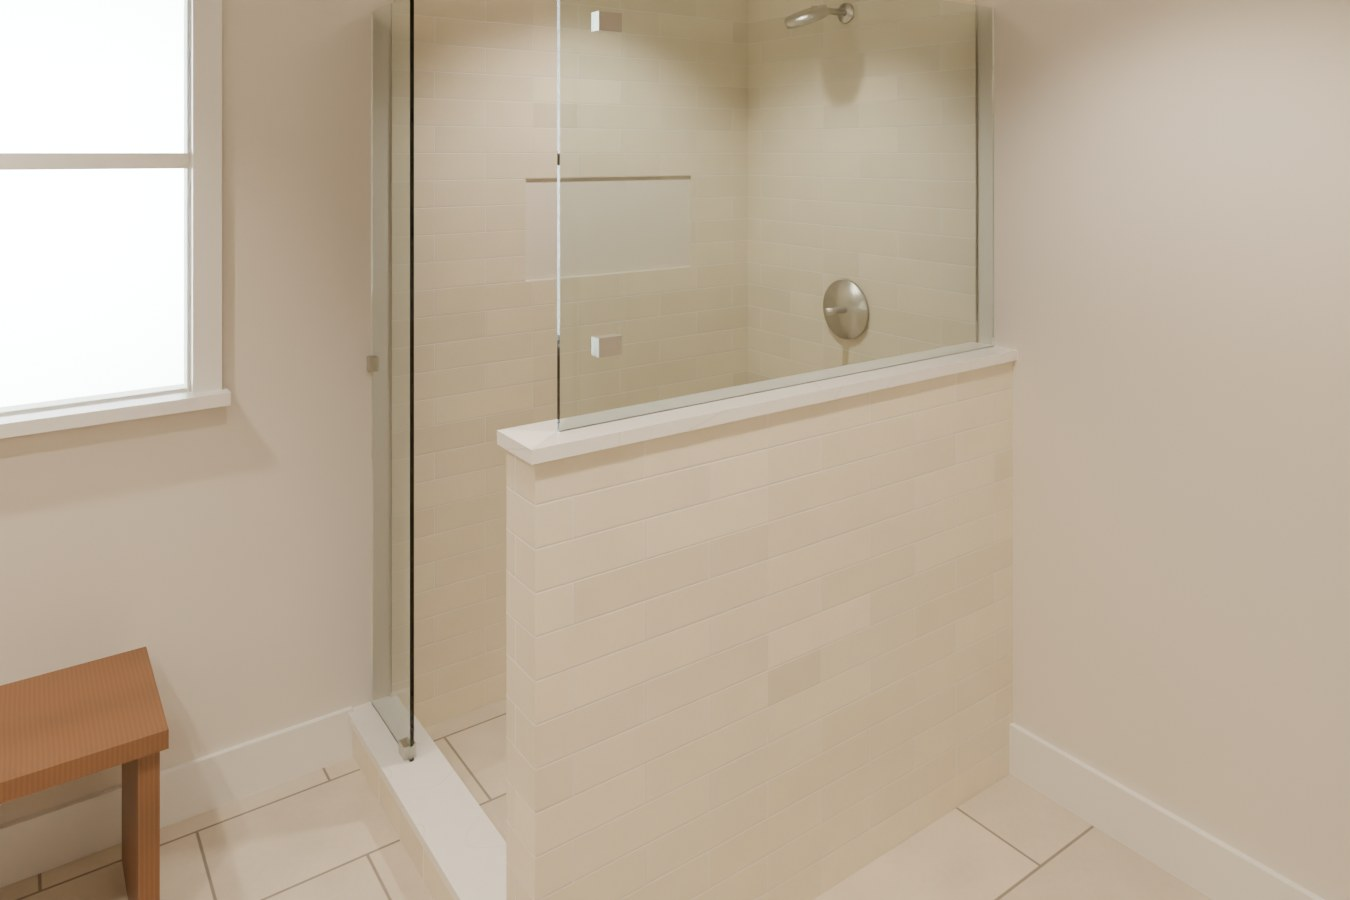
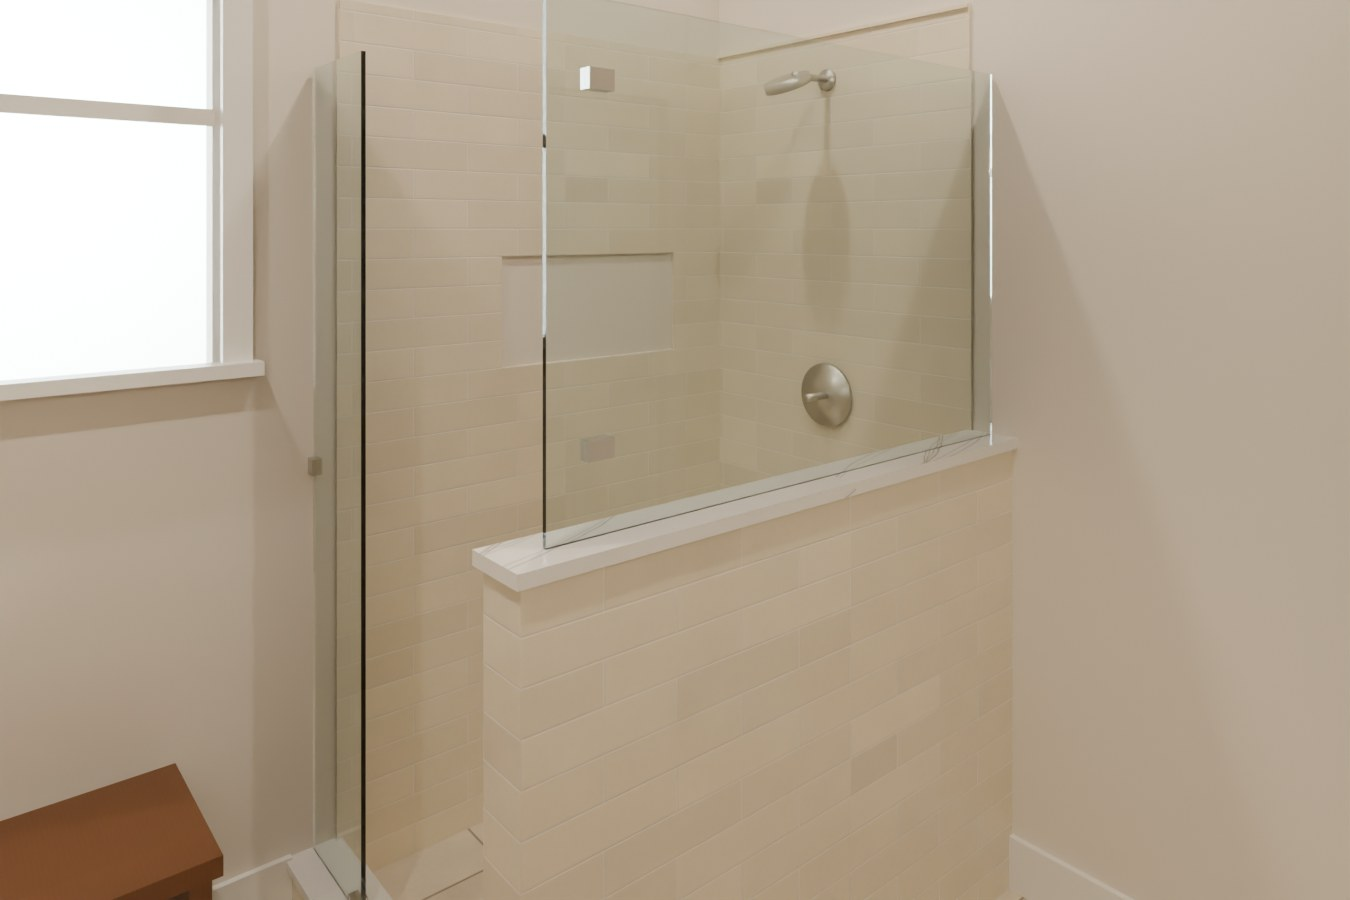
Olive Hill concept: rebuild from Polycam mesh, add 3D walkthrough, Brown Sugar vanity wall to wall, Golden Beach quartz
Claude-Session: https://claude.ai/code/session_01SeE1aYPeiWt3ibgsh6fWaQ

diff --git a/concepts/olive-hill/walkthrough.html b/concepts/olive-hill/walkthrough.html
@@ -1,0 +1,232 @@
+<!DOCTYPE html>
+<html lang="en"><head><meta charset="utf-8">
+<meta name="viewport" content="width=device-width, initial-scale=1, maximum-scale=1, user-scalable=no">
+<meta name="robots" content="noindex, nofollow">
+<title>Primary Bath — 3D Walkthrough</title>
+<style>
+html,body{margin:0;height:100%;overflow:hidden;background:#141413;font-family:Inter,system-ui,sans-serif;touch-action:none}
+canvas{display:block;width:100%;height:100%}
+#top{position:fixed;top:0;left:0;right:0;padding:12px 16px;display:flex;gap:12px;align-items:center;background:linear-gradient(#141413e6,#14141300);color:#f5f3ee;pointer-events:none}
+#top .logo{width:64px;height:64px;flex:none}
+#top .k{font-size:11px;letter-spacing:.18em;color:#C9A961;font-weight:600}
+#top .t{font-size:18px;font-weight:600;margin-top:2px}
+#top .h{font-size:12px;color:#c9c6bf;margin-top:4px}
+#bar{position:fixed;left:0;right:0;bottom:0;padding:10px 10px calc(10px + env(safe-area-inset-bottom));display:flex;flex-wrap:wrap;gap:8px;justify-content:center;background:linear-gradient(#14141300,#141413e6)}
+button{min-height:44px;padding:0 14px;border-radius:22px;border:1px solid #C9A961;background:#1f1e1c;color:#f5f3ee;font-size:14px;font-weight:600}
+button.on{background:#C9A961;color:#141413}
+#walk{position:fixed;right:14px;bottom:120px;display:flex;flex-direction:column;gap:8px}
+#walk button{width:52px;padding:0;font-size:20px}
+</style>
+<script type="importmap">{"imports":{"three":"https://cdn.jsdelivr.net/npm/three@0.170.0/build/three.module.js","three/addons/":"https://cdn.jsdelivr.net/npm/three@0.170.0/examples/jsm/"}}</script>
+</head><body>
+<div id="top"><img src="logo.png" alt="Sovereign Renovations" class="logo"><div><div class="k">SOVEREIGN RENOVATIONS · CONCEPT</div><div class="t">Primary Bath — 3D walkthrough</div>
+<div class="h">Drag to look around · tap the floor to walk there · or use the arrows</div></div></div>
+<div id="walk"><button id="fw" aria-label="Walk forward">&#8593;</button><button id="bk" aria-label="Walk back">&#8595;</button></div>
+<div id="bar">
+<button data-v="entry">Doorway</button><button data-v="shower">Shower</button><button data-v="inside">Inside shower</button><button data-v="vanity">Vanity</button>
+<button id="style" class="on" aria-pressed="true">Styling on</button>
+</div>
+<script type="module">
+import * as THREE from 'three';
+import { Reflector } from 'three/addons/objects/Reflector.js';
+import { RoomEnvironment } from 'three/addons/environments/RoomEnvironment.js';
+const renderer=new THREE.WebGLRenderer({antialias:true});
+renderer.setPixelRatio(Math.min(window.devicePixelRatio||1,1.5)); renderer.setSize(innerWidth,innerHeight);
+renderer.outputColorSpace=THREE.SRGBColorSpace; renderer.toneMapping=THREE.ACESFilmicToneMapping; renderer.toneMappingExposure=0.78;
+renderer.shadowMap.enabled=true; renderer.shadowMap.type=THREE.PCFSoftShadowMap;
+document.body.prepend(renderer.domElement);
+const scene=new THREE.Scene(); scene.background=new THREE.Color('#e6e2d9');
+const pmrem=new THREE.PMREMGenerator(renderer); scene.environment=pmrem.fromScene(new RoomEnvironment(),0.04).texture; scene.environmentIntensity=0.35;
+
+// Plan coordinates in inches, from the Polycam mesh: x = 0 at the vanity wall .. 103 at the window wall,
+// z = 0 at the entry wall .. 120 at the far wall, y = height. Vaulted ceiling: 118" at the entry wall, 152" ridge, 110" at the far wall.
+const W=103, D=120, HE=118, HR=152, HF=110, RZ0=50, RZ1=66, WH=170;
+function ceilH(z){ return z<=RZ0? HE+(HR-HE)*z/RZ0 : z<=RZ1? HR : HR-(HR-HF)*(z-RZ1)/(D-RZ1); }
+const loader=new THREE.TextureLoader();
+function tex(url,size){ const t=loader.load(url); t.colorSpace=THREE.SRGBColorSpace; t.wrapS=t.wrapT=THREE.RepeatWrapping; t.anisotropy=8; return {t,size}; }
+const TX={floor:tex('tex-floor.jpg',96), tile:tex('tex-wall.jpg',48), wood:tex('tex-wood.jpg',[20,40]), quartz:tex('tex-quartz.jpg',48)};
+function tmat(k,rough,extra={}){ const m=new THREE.MeshStandardMaterial({map:TX[k].t,roughness:rough,...extra}); m.userData.size=TX[k].size; m.name=k; return m; }
+const M={
+  paint:new THREE.MeshStandardMaterial({color:'#ece5d8',roughness:0.92}),
+  ceiling:new THREE.MeshStandardMaterial({color:'#f4f1ea',roughness:0.95,emissive:'#4a4740',side:THREE.DoubleSide}),
+  trim:new THREE.MeshStandardMaterial({color:'#f6f4ee',roughness:0.55}),
+  floor:tmat('floor',0.55), tile:tmat('tile',0.18), wood:tmat('wood',0.5), quartz:tmat('quartz',0.15),
+  metal:new THREE.MeshStandardMaterial({color:'#c8c5be',metalness:0.9,roughness:0.32}),
+  bronze:new THREE.MeshStandardMaterial({color:'#d4b482',metalness:0.85,roughness:0.32}),
+  sink:new THREE.MeshStandardMaterial({color:'#fbfaf7',roughness:0.15,side:THREE.DoubleSide}),
+  glass:new THREE.MeshPhysicalMaterial({color:'#e8f2f2',roughness:0.03,metalness:0,transparent:true,opacity:0.16,side:THREE.DoubleSide}),
+  glassEdge:new THREE.MeshStandardMaterial({color:'#bfd6d4',transparent:true,opacity:0.55}),
+  dark:new THREE.MeshStandardMaterial({color:'#3a3733',roughness:0.9}),
+  hall:new THREE.MeshStandardMaterial({color:'#6b665e',roughness:0.95}),
+  lightTrim:new THREE.MeshStandardMaterial({color:'#ffffff',emissive:'#fff6e6',emissiveIntensity:1.4}),
+  globe:new THREE.MeshStandardMaterial({color:'#fffaf0',emissive:'#ffe2bd',emissiveIntensity:1.1,roughness:0.4}),
+  sky:new THREE.MeshStandardMaterial({color:'#dfe9ee',emissive:'#e8f0f4',emissiveIntensity:0.95}),
+};
+// world-space UVs so tile and grain stay true to size on every face
+function worldUV(geo,mesh,size){ const sx=Array.isArray(size)?size[0]:size, sy=Array.isArray(size)?size[1]:size;
+  const p=geo.attributes.position, n=geo.attributes.normal, uv=geo.attributes.uv; mesh.updateMatrixWorld();
+  const v=new THREE.Vector3();
+  for(let i=0;i<p.count;i++){ v.fromBufferAttribute(p,i).applyMatrix4(mesh.matrixWorld); const nx=Math.abs(n.getX(i)),ny=Math.abs(n.getY(i));
+    if(ny>0.5) uv.setXY(i,v.x/sx,v.z/sy); else if(nx>0.5) uv.setXY(i,v.z/sx,v.y/sy); else uv.setXY(i,v.x/sx,v.y/sy); }
+  uv.needsUpdate=true; }
+let TARGET=scene; const styled=new THREE.Group(); scene.add(styled);
+function box(x1,x2,y1,y2,z1,z2,mat,shadow=true){
+  const g=new THREE.BoxGeometry(x2-x1,y2-y1,z2-z1); const m=new THREE.Mesh(g,mat);
+  m.position.set((x1+x2)/2,(y1+y2)/2,(z1+z2)/2); m.castShadow=shadow; m.receiveShadow=true; TARGET.add(m);
+  if(mat.userData.size) worldUV(g,m,mat.userData.size); return m; }
+function cyl(r1,r2,h,mat,x,y,z,rx=0,rz=0,seg=24){ const m=new THREE.Mesh(new THREE.CylinderGeometry(r1,r2,h,seg),mat); m.position.set(x,y,z); m.rotation.set(rx,0,rz); m.castShadow=true; TARGET.add(m); return m; }
+
+// ---------- shell ----------
+const floor=box(-45,W+5,-1,0,-5,D+5,M.floor);
+{ const prof=[[-5,HE-(HR-HE)*5/RZ0],[RZ0,HR],[RZ1,HR],[D+5,HF-(HR-HF)*5/(D-RZ1)]]; const pos=[];
+  for(let i=0;i<prof.length-1;i++){ const [z0,y0]=prof[i],[z1,y1]=prof[i+1];
+    pos.push(-45,y0,z0, W+5,y0,z0, W+5,y1,z1,  -45,y0,z0, W+5,y1,z1, -45,y1,z1); }
+  const g=new THREE.BufferGeometry(); g.setAttribute('position',new THREE.Float32BufferAttribute(pos,3)); g.computeVertexNormals();
+  scene.add(new THREE.Mesh(g,M.ceiling)); }
+// vanity wall
+box(-5,0,0,WH,-5,79,M.paint);
+// toilet room beyond the vanity: south wall z 79..83.5, east face x 18 with door z 88..116
+const TE=18, TS=79;
+box(-45,TE,0,WH,TS,TS+4.5,M.paint);
+box(TE-4.5,TE,0,WH,TS+4.5,88,M.paint); box(TE-4.5,TE,0,WH,116,D,M.paint); box(TE-4.5,TE,80,WH,88,116,M.paint);
+box(TE-3,TE-1.5,0,80,88,116,M.trim);
+for(const [a,b] of [[90.5,101.5],[102.5,113.5]]){ box(TE-1.5,TE-1.2,8,38,a,b,M.trim,false); box(TE-1.5,TE-1.2,44,74,a,b,M.trim,false); }
+{ const k=new THREE.Mesh(new THREE.SphereGeometry(1.1,16,12),M.metal); k.position.set(TE-0.5,36,90.5); scene.add(k); }
+box(TE,TE+0.8,0,80,85.5,88,M.trim,false); box(TE,TE+0.8,0,80,116,118.5,M.trim,false); box(TE,TE+0.8,80,82.5,85.5,118.5,M.trim,false);
+// entry wall (z=0) with 30" doorway x 26..56
+box(-5,26,0,WH,-5,0,M.paint); box(56,W+5,0,WH,-5,0,M.paint); box(26,56,80,WH,-5,0,M.paint);
+box(6,76,0,WH,-70,-60,M.hall,false); box(16,66,-1,0,-60,0,M.hall,false);
+box(23.5,26,0,80,-0.2,0.7,M.trim,false); box(56,58.5,0,80,-0.2,0.7,M.trim,false); box(23.5,58.5,80,82.5,-0.2,0.7,M.trim,false);
+// far wall
+box(-5,W+5,0,WH,D,D+5,M.paint);
+// window wall: window over the old tub, z 20..60, sill 50, head 96
+const WZ0=20, WZ1=60, WS=50, WHd=96;
+box(W,W+5,0,WH,-5,WZ0,M.paint); box(W,W+5,0,WH,WZ1,D+5,M.paint); box(W,W+5,0,WS,WZ0,WZ1,M.paint); box(W,W+5,WHd,WH,WZ0,WZ1,M.paint);
+box(W+2.6,W+2.8,WS,WHd,WZ0,WZ1,M.sky,false);
+box(W+2,W+2.5,(WS+WHd)/2-0.75,(WS+WHd)/2+0.75,WZ0,WZ1,M.trim,false);
+box(W-0.8,W,WS+1.2,WHd,WZ0-2.5,WZ0,M.trim,false); box(W-0.8,W,WS+1.2,WHd,WZ1,WZ1+2.5,M.trim,false); box(W-0.8,W,WHd,WHd+2.5,WZ0-2.5,WZ1+2.5,M.trim,false); box(W-2.5,W,WS,WS+1.2,WZ0-3,WZ1+3,M.trim,false);
+// baseboards
+box(0,23.5,0,5,0,0.6,M.trim,false); box(58.5,W,0,5,0,0.6,M.trim,false); box(W-0.6,W,0,5,0,66,M.trim,false);
+box(TE,TE+0.6,0,5,TS+4.5,85.5,M.trim,false); box(TE,TE+0.6,0,5,118.5,D,M.trim,false); box(TE,61.5,0,5,D-0.6,D,M.trim,false);
+
+// ---------- wall-to-wall vanity (79"), KraftMaid Keagan in Brown Sugar ----------
+const VX=21, G=0.125;
+box(0,VX-3,0,4,0,79,M.dark,false);
+box(0,VX,4,28,0,79,M.wood); box(0,VX+0.75,4,34.5,0,1.5,M.wood); box(0,VX+0.75,4,34.5,77.5,79,M.wood);
+function pullH(z,y){ cyl(0.22,0.22,5,M.metal,VX+1.75,y,z,Math.PI/2); for(const d of [-2.4,2.4]) cyl(0.2,0.2,1,M.metal,VX+1.25,y,z+d,0,Math.PI/2,10); }
+function pullV(z,y){ cyl(0.22,0.22,5,M.metal,VX+1.75,y,z); for(const d of [-2.4,2.4]) cyl(0.2,0.2,1,M.metal,VX+1.25,y+d,z,0,Math.PI/2,10); }
+function shaker(z0,z1,y0,y1,pull){ const x0=VX,x1=VX+0.75,s=2.25; z0+=G;z1-=G;y0+=G;y1-=G;
+  box(x0,x1,y0,y1,z0,z0+s,M.wood); box(x0,x1,y0,y1,z1-s,z1,M.wood); box(x0,x1,y0,y0+s,z0+s,z1-s,M.wood); box(x0,x1,y1-s,y1,z0+s,z1-s,M.wood);
+  box(x0,x0+0.4,y0+s,y1-s,z0+s,z1-s,M.wood);
+  if(y1-y0>12){ box(x1,x1+0.25,y0+s,y1-s,z0+0.6,z0+1.2,M.wood); box(x1,x1+0.25,y0+s,y1-s,z1-1.2,z1-0.6,M.wood); }
+  const zc=(z0+z1)/2;
+  if(pull==='h') pullH(zc,(y1-y0)<9?y1-s/2:(y0+y1)/2);
+  if(pull==='vl') pullV(z1-1.6,y1-6); if(pull==='vr') pullV(z0+1.6,y1-6); }
+for(const [a,b] of [[1.5,31.5],[47.5,77.5]]){ const m=(a+b)/2; shaker(a,b,26.5,34.5,''); shaker(a,m,4.5,26.5,'vl'); shaker(m,b,4.5,26.5,'vr'); }
+shaker(31.5,47.5,25,34.5,'h'); shaker(31.5,47.5,14.75,25,'h'); shaker(31.5,47.5,4.5,14.75,'h');
+// quartz top with two undermount oval sinks (top built as a shape with holes)
+{ const sh=new THREE.Shape(); sh.moveTo(0,0); sh.lineTo(22.5,0); sh.lineTo(22.5,79); sh.lineTo(0,79); sh.lineTo(0,0);
+  for(const sz of [16.5,62.5]){ const h=new THREE.Path(); h.absellipse(11.75,sz,6.5,8.25,0,Math.PI*2,true); sh.holes.push(h); }
+  const g=new THREE.ExtrudeGeometry(sh,{depth:1.25,bevelEnabled:false}); g.rotateX(Math.PI/2); g.translate(0,35.75,0);
+  // after rotateX(+90deg): shape (x, y) -> world (x, y-height?, z); fix mapping below
+  const m=new THREE.Mesh(g,M.quartz); m.receiveShadow=true; m.castShadow=true; scene.add(m);
+  const pos=g.attributes.position; const uv=g.attributes.uv; for(let i=0;i<pos.count;i++) uv.setXY(i,pos.getX(i)/40,pos.getZ(i)/40); uv.needsUpdate=true;
+  for(const sz of [16.5,62.5]){
+    const bowl=new THREE.Mesh(new THREE.SphereGeometry(1,40,20,0,Math.PI*2,Math.PI/2,Math.PI/2),M.sink); bowl.scale.set(6.9,6,8.7); bowl.position.set(11.75,34.6,sz); scene.add(bowl);
+    const dr=cyl(0.9,0.9,0.15,M.metal,11.75,28.7,sz);
+    // faucet: base, gooseneck, handles
+    cyl(1.1,1.1,0.7,M.metal,3.2,36.1,sz);
+    const c=new THREE.CatmullRomCurve3([new THREE.Vector3(3.2,36,sz),new THREE.Vector3(3.2,44.5,sz),new THREE.Vector3(5.6,46.2,sz),new THREE.Vector3(8.6,43.2,sz),new THREE.Vector3(8.9,41.8,sz)]);
+    scene.add(new THREE.Mesh(new THREE.TubeGeometry(c,32,0.5,12,false),M.metal));
+    for(const d of [-4.5,4.5]){ cyl(0.9,0.9,1.4,M.metal,3.2,36.4,sz+d); cyl(0.28,0.28,3,M.metal,4.7,37.6,sz+d,0,Math.PI/2,10); }
+  } }
+box(0,0.75,35.75,39.75,0,79,M.quartz);
+// arched mirrors (reflective) with brass frames + 3-light fixtures
+function archShape(w,h,inset=0){ const r=w/2-inset, s=new THREE.Shape(); s.moveTo(-r,inset); s.lineTo(r,inset); s.lineTo(r,h-w/2); s.absarc(0,h-w/2,r,0,Math.PI,false); s.lineTo(-r,inset); return s; }
+for(const sz of [16.5,62.5]){
+  const fg=new THREE.ExtrudeGeometry(archShape(24,36),{depth:1,bevelEnabled:false}); const fr=new THREE.Mesh(fg,M.bronze); fr.rotation.y=Math.PI/2; fr.position.set(0,42,sz); scene.add(fr);
+  const rg=new THREE.ShapeGeometry(archShape(24,36,0.9),24); const r=new Reflector(rg,{textureWidth:768,textureHeight:768,color:'#c8cccc'}); r.rotation.y=Math.PI/2; r.position.set(1.05,42,sz); scene.add(r);
+  box(0,0.8,82,83,sz-12.5,sz+12.5,M.bronze,false);
+  for(const d of [-9,0,9]){ cyl(0.3,0.3,3.4,M.bronze,2.5,82.5,sz+d,0,Math.PI/2,10); cyl(1,1,2,M.bronze,4.2,81.5,sz+d);
+    const gl=new THREE.Mesh(new THREE.SphereGeometry(2.6,24,16),M.globe); gl.position.set(4.2,78,sz+d); scene.add(gl); }
+}
+
+// ---------- shower: 37x54 double-curb pan in the old stall corner — knee wall on the long side, entry over the short curb ----------
+const SX=61.5, SZ=66;
+box(SX,SX+4.5,0,42,SZ,D,M.tile); box(SX-0.5,SX+5,42,43,SZ-0.5,D,M.quartz);
+box(SX+4.5,W,0,4,SZ,SZ+4.5,M.tile); box(SX+4.5,W,4,4.75,SZ-0.5,SZ+5,M.quartz);
+function glass(x1,x2,y1,y2,z1,z2){ box(x1,x2,y1,y2,z1,z2,M.glass,false); }
+glass(SX+2,SX+2.4,43,78,SZ+3,D-0.3); box(SX+1.9,SX+2.5,77.75,78,SZ+3,D-0.3,M.glassEdge,false);
+glass(91,W-0.3,4.75,78,SZ+2,SZ+2.4); box(91,W-0.3,77.75,78,SZ+1.9,SZ+2.5,M.glassEdge,false);
+for(const y of [48,72]) box(SX+1.6,SX+2.8,y,y+1.4,SZ+6,SZ+8,M.metal,false);
+box(W-1.2,W,40,41.5,SZ+1.6,SZ+2.8,M.metal,false);
+// tiled walls to 85", niche on the window-side wall
+box(SX+4.5,W,0,85,D-0.3,D,M.tile);
+box(W-0.3,W,0,85,SZ+4.5,88,M.tile); box(W-0.3,W,0,85,112,D,M.tile); box(W-0.3,W,0,48,88,112,M.tile); box(W-0.3,W,60,85,88,112,M.tile);
+box(W+3,W+3.3,48,60,88,112,M.tile); box(W,W+3,47.6,48,88,112,M.quartz); box(W,W+3,60,60.3,88,112,M.tile); box(W,W+3,48,60,87.7,88,M.tile); box(W,W+3,48,60,112,112.3,M.tile);
+// valve + shower head on the far wall
+cyl(3.6,3.6,0.5,M.metal,84.5,44,D-0.55,Math.PI/2); cyl(0.45,0.45,3,M.metal,84.5,44,D-2.3,Math.PI/2);
+cyl(1.2,1.2,0.4,M.metal,84.5,80,D-0.5,Math.PI/2); cyl(0.4,0.4,6,M.metal,84.5,79.5,D-3.3,Math.PI/2.3);
+cyl(2.6,1.2,1.2,M.metal,84.5,78.6,D-6.6,Math.PI/2-0.45);
+box(81.5,87.5,0,0.06,96,98,M.metal,false);
+
+// ---------- styling ----------
+TARGET=styled;
+{ const cloth=new THREE.MeshStandardMaterial({color:'#efe8dc',roughness:0.95}), cloth2=new THREE.MeshStandardMaterial({color:'#d9cfbf',roughness:0.95});
+  box(25,46,0,0.4,8,70,cloth2,false);                 // bath mat at the vanity
+  // (towel removed)
+  // wood bench under the window
+  box(86,101,16.5,18,24,56,M.wood); box(87,100,0,16.5,25,26.5,M.wood); box(87,100,0,16.5,54.5,56,M.wood);
+  const tr=new THREE.CylinderGeometry(2.4,2.4,12,24); for(const [z,y] of [[34,20.4],[39,20.4],[36.5,24.6]]){ const m=new THREE.Mesh(tr,cloth); m.rotation.z=Math.PI/2; m.position.set(93.5,y,z); styled.add(m); }
+  // bottles in the niche
+  for(const [z,h,c] of [[94,7.5,'#efece6'],[99,8.5,'#e8e3da'],[104,6,'#c9b79c']]){ const b=cyl(1.3,1.3,h,new THREE.MeshStandardMaterial({color:c,roughness:0.25}),W+1.6,48+h/2,z); }
+}
+TARGET=scene;
+
+// ---------- lights ----------
+for(const [x,z] of [[42,24],[42,90],[84,26],[84,94]]){ const h=ceilH(z), ang= z<RZ0? Math.atan((HR-HE)/RZ0) : z>RZ1? -Math.atan((HR-HF)/(D-RZ1)) : 0;
+  const d=new THREE.Mesh(new THREE.CylinderGeometry(2.2,2.2,0.3,32),M.lightTrim); d.position.set(x,h-0.3,z); d.rotation.x=ang; scene.add(d);
+  const pl=new THREE.PointLight('#fff1dc',1.3,0,0.3); pl.position.set(x,h-8,z); scene.add(pl); }
+const key=new THREE.SpotLight('#fff3e2',9,0,Math.PI/2.4,0.8,0.25); key.position.set(52,HR-6,58); key.target.position.set(50,0,70);
+key.castShadow=true; key.shadow.mapSize.set(2048,2048); key.shadow.bias=-0.002; key.shadow.normalBias=0.6; scene.add(key); scene.add(key.target);
+const win=new THREE.PointLight('#eef4ff',2.2,0,0.2); win.position.set(W-8,62,41); scene.add(win);
+scene.add(new THREE.HemisphereLight('#ffffff','#6f6a64',0.4)); scene.add(new THREE.AmbientLight('#ffffff',0.12));
+
+// ---------- camera + controls (three.js x = plan x, three.js z = plan depth) ----------
+const cam=new THREE.PerspectiveCamera(70,innerWidth/innerHeight,1,2000);
+function fitFov(){ const asp=innerWidth/innerHeight; const h=THREE.MathUtils.degToRad(82); cam.fov=Math.min(80,Math.max(55,THREE.MathUtils.radToDeg(2*Math.atan(Math.tan(h/2)/asp)))); cam.aspect=asp; cam.updateProjectionMatrix(); }
+fitFov();
+const EYE=62; let yaw=0,pitch=-0.1; const pos=new THREE.Vector3(); let target=null;
+const VIEWS={entry:[[44,EYE,4],[60,50,110]],shower:[[22,EYE,50],[88,40,100]],inside:[[80,EYE,76],[84,44,D]],vanity:[[86,EYE,60],[0,46,40]]};
+function lookAt(p,l){ const d=new THREE.Vector3(...l).sub(new THREE.Vector3(...p)); yaw=Math.atan2(-d.x,-d.z); pitch=Math.atan2(d.y,Math.hypot(d.x,d.z)); }
+function clampPos(p){ p.x=Math.max(p.z>80?24:25,Math.min(98,p.x)); p.z=Math.max(5,Math.min(115,p.z));
+  const inShower=p.x>69 && p.z>71;
+  if(!inShower && p.x>56 && p.z>71) p.x=56;                    // knee wall
+  if(!inShower && p.z>61 && p.z<71 && p.x>88) p.z=61;          // fixed glass at the entry
+  return p; }
+function go(n){ const [p,l]=VIEWS[n]; target={pos:new THREE.Vector3(...p),view:l}; }
+pos.set(...VIEWS.entry[0]); lookAt(VIEWS.entry[0],VIEWS.entry[1]);
+document.querySelectorAll('[data-v]').forEach(b=>b.addEventListener('click',()=>go(b.dataset.v)));
+const styleBtn=document.getElementById('style'); styleBtn.addEventListener('click',()=>{ const o=!styled.visible; styled.visible=o; styleBtn.textContent=o?'Styling on':'Styling off'; styleBtn.classList.toggle('on',o); styleBtn.setAttribute('aria-pressed',o); });
+let drag=null; const el=renderer.domElement; const ray=new THREE.Raycaster();
+el.addEventListener('pointerdown',e=>{ drag={x:e.clientX,y:e.clientY,moved:0}; el.setPointerCapture(e.pointerId); });
+el.addEventListener('pointermove',e=>{ if(!drag) return; const dx=e.clientX-drag.x, dy=e.clientY-drag.y; drag.moved+=Math.abs(dx)+Math.abs(dy);
+  yaw+=dx*0.005; pitch=Math.max(-1.2,Math.min(1.2,pitch+dy*0.005)); drag.x=e.clientX; drag.y=e.clientY; });
+el.addEventListener('pointerup',e=>{ if(drag && drag.moved<6){ const r=el.getBoundingClientRect(); ray.setFromCamera(new THREE.Vector2((e.clientX-r.left)/r.width*2-1,-(e.clientY-r.top)/r.height*2+1),cam);
+    const hit=ray.intersectObject(floor)[0]; if(hit){ target={pos:clampPos(new THREE.Vector3(hit.point.x,EYE,hit.point.z))}; } } drag=null; });
+const keys={}; addEventListener('keydown',e=>{keys[e.key]=true;}); addEventListener('keyup',e=>{keys[e.key]=false;});
+let hold=0; const hb=(id,v)=>{ const b=document.getElementById(id); b.addEventListener('pointerdown',()=>hold=v); ['pointerup','pointerleave','pointercancel'].forEach(t=>b.addEventListener(t,()=>hold=0)); };
+hb('fw',1); hb('bk',-1);
+addEventListener('resize',()=>{ renderer.setSize(innerWidth,innerHeight); fitFov(); });
+let last=performance.now();
+function frame(t){ const dt=Math.min(0.05,(t-last)/1000); last=t;
+  let mv=hold; if(keys['ArrowUp']||keys['w']) mv=1; if(keys['ArrowDown']||keys['s']) mv=-1;
+  if(keys['ArrowLeft']||keys['a']) yaw+=1.6*dt; if(keys['ArrowRight']||keys['d']) yaw-=1.6*dt;
+  if(mv){ target=null; pos.x-=Math.sin(yaw)*mv*40*dt; pos.z-=Math.cos(yaw)*mv*40*dt; clampPos(pos); }
+  if(target){ pos.lerp(target.pos,Math.min(1,dt*4)); if(target.view){ const d=new THREE.Vector3(...target.view).sub(pos); const ty=Math.atan2(-d.x,-d.z), tp=Math.atan2(d.y,Math.hypot(d.x,d.z));
+      let dy=((ty-yaw+Math.PI*3)%(Math.PI*2))-Math.PI; yaw+=dy*Math.min(1,dt*4); pitch+=(tp-pitch)*Math.min(1,dt*4); }
+    if(pos.distanceTo(target.pos)<0.3) target=null; }
+  cam.position.copy(pos); cam.rotation.set(pitch,yaw,0,'YXZ'); renderer.render(scene,cam); requestAnimationFrame(frame); }
+requestAnimationFrame(frame);
+window.__ready=true;
+</script></body></html>

diff --git a/concepts/olive-hill/index.html b/concepts/olive-hill/index.html
@@ -50,12 +50,21 @@ footer a{color:var(--label)}
   <p>The garden tub and old stall shower come out, and a tiled walk-in shower with a knee wall and glass goes in. New stained cabinets, new tile floor, and a warm, light finish throughout.</p>
 </header>
 <main>
+  <section class="cta">
+    <div>
+      <div class="eyebrow" style="color:var(--label)">Interactive</div>
+      <h2>Walk through the new bathroom</h2>
+      <p>Look around and walk the room in 3D, built from the scan of your bathroom. Turn the styling on and off.</p>
+    </div>
+    <a class="btn" href="walkthrough.html">Start the walkthrough</a>
+  </section>
+
   <figure>
     <img src="main.jpg" alt="New bathroom with walk-in shower and stained double vanity">
     <figcaption>
       <div class="eyebrow" style="color:var(--label)">The Room</div>
       <h3>How it all comes together</h3>
-      <p>Warm limestone-look 12×24 floor tile, soft warm white walls, a stained shaker double vanity, and recessed lighting.</p>
+      <p>Your vaulted ceiling stays, with recessed lights. Warm limestone-look 12×24 floor tile, soft warm white walls, and a new Brown Sugar vanity that runs wall to wall. The old tub spot under the window opens up.</p>
     </figcaption>
   </figure>
 
@@ -64,7 +73,7 @@ footer a{color:var(--label)}
     <figcaption>
       <div class="eyebrow" style="color:var(--label)">The Shower</div>
       <h3>Open walk-in shower</h3>
-      <p>A tiled knee wall with a stone cap and frameless glass on top, so the shower stays open and bright with no door. Cream 3×12 glossy wall tile laid in a brick pattern, a recessed niche, and brushed nickel trim. The floor tile carries into the shower.</p>
+      <p>The old stall comes out and the shower takes over that whole corner. A tiled knee wall with a stone cap and frameless glass runs along the long side, and you step in over a low curb on the short end, with no door. Cream 3×12 glossy wall tile laid in a brick pattern, a recessed niche, and brushed nickel trim.</p>
     </figcaption>
   </figure>
 
@@ -72,7 +81,7 @@ footer a{color:var(--label)}
     <img src="vanity.jpg" alt="Stained double vanity with arched mirrors">
     <figcaption>
       <h3>The vanity wall</h3>
-      <p>New stained shaker double vanity with a center drawer bank, a white quartz top with undermount sinks, arched mirrors, and warm brass 3-light fixtures.</p>
+      <p>A new double vanity runs wall to wall in a warm Brown Sugar stain, with a center drawer bank, a Golden Beach quartz top (soft white with gray and gold veining) with undermount sinks, arched mirrors, and warm brass 3-light fixtures.</p>
     </figcaption>
   </figure>
 
@@ -81,12 +90,12 @@ footer a{color:var(--label)}
     <h2>What's in the design</h2>
     <dl>
       <dt>Removed</dt><dd>Garden tub and the existing stall shower, down to the studs</dd>
-      <dt>Shower</dt><dd>Open walk-in shower with a tiled knee wall, stone cap and fixed frameless glass; recessed niche</dd>
+      <dt>Shower</dt><dd>About 37×54 walk-in shower on a curbed shower base; tiled knee wall with stone cap and fixed frameless glass; step-in over the short end; recessed niche</dd>
       <dt>Shower walls</dt><dd>Cream 3×12 glossy tile, light grout, about 7 feet high</dd>
       <dt>Floor</dt><dd>Warm limestone-look 12×24 matte tile, in the room and the shower</dd>
-      <dt>Vanity</dt><dd>New stained shaker double vanity, white quartz top, undermount sinks</dd>
+      <dt>Vanity</dt><dd>Wall-to-wall double vanity, KraftMaid Keagan door in Brown Sugar stain, Golden Beach quartz top, undermount sinks</dd>
       <dt>Fixtures</dt><dd>Brushed nickel faucets and shower trim</dd>
-      <dt>Lighting</dt><dd>Recessed lights in the room and shower, 3-light fixtures over each mirror</dd>
+      <dt>Lighting</dt><dd>Recessed lights in the vaulted ceiling, including the shower; 3-light fixtures over each mirror</dd>
       <dt>Walls</dt><dd>Soft warm white paint</dd>
     </dl>
   </section>
